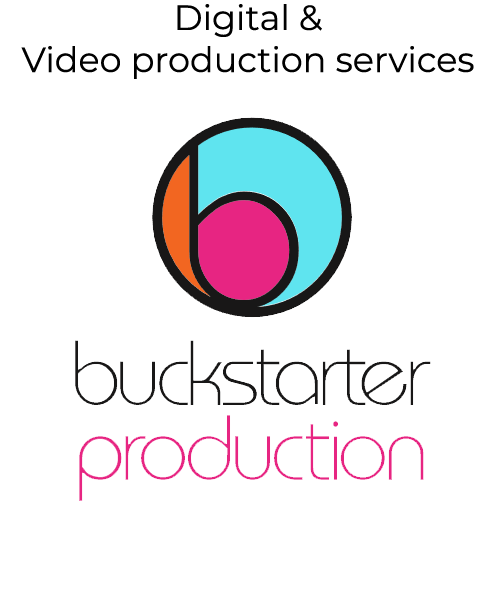
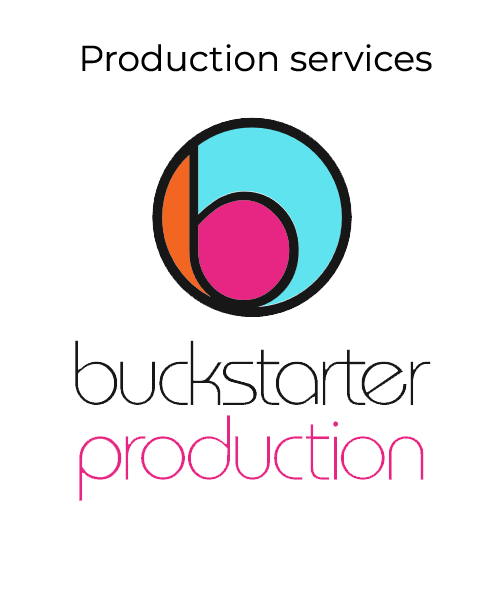
FINISHED PAGE 1 and 2

Changed region(s): [[0.03, 0.0, 0.96, 0.12]]

diff --git a/index.html b/index.html
@@ -18,14 +18,16 @@
 		<div class="slides">
 			<section>
 				<section id="start">
-					<p class="fade" style="font-family: monako; position:relative;top:150; font-size: 45px;">welcome to</p>
+					<p class="fade" style="font-family: monako; position:relative;top:130; font-size: 45px;">welcome to</p>
 					<img class="fade" src="pics\s1_logo.png" alt="Logo" style=" border:none; box-shadow:none;">
+					<p class="fade" style="font-family: monako; position:relative;bottom:190px; font-size: 30px;">We get brands going</p>
+
 				</section>
 				<section id="fragments"> 
 					<p style="font-size: 31px; font-family: MSemibold; position:relative; bottom:150px;">We come is three sizes, where &amp; when needed.
 					</p>
-					<img class="fragment fade-up" src="pics/bsbranding.png" style="border:none; box-shadow:none; width:250px;" alt="">
 					<img class="fragment fade-up" src="pics/bsinnovation.png" style="border:none; box-shadow:none; width:250px;	" alt="">
+					<img class="fragment fade-up" src="pics/bsbranding.png" style="border:none; box-shadow:none; width:250px;" alt="">
 					<img class="fragment fade-up" src="pics/bsproduction.png" style="border:none; box-shadow:none; width:250px;	" alt="">
 				</section>
 			</section>
